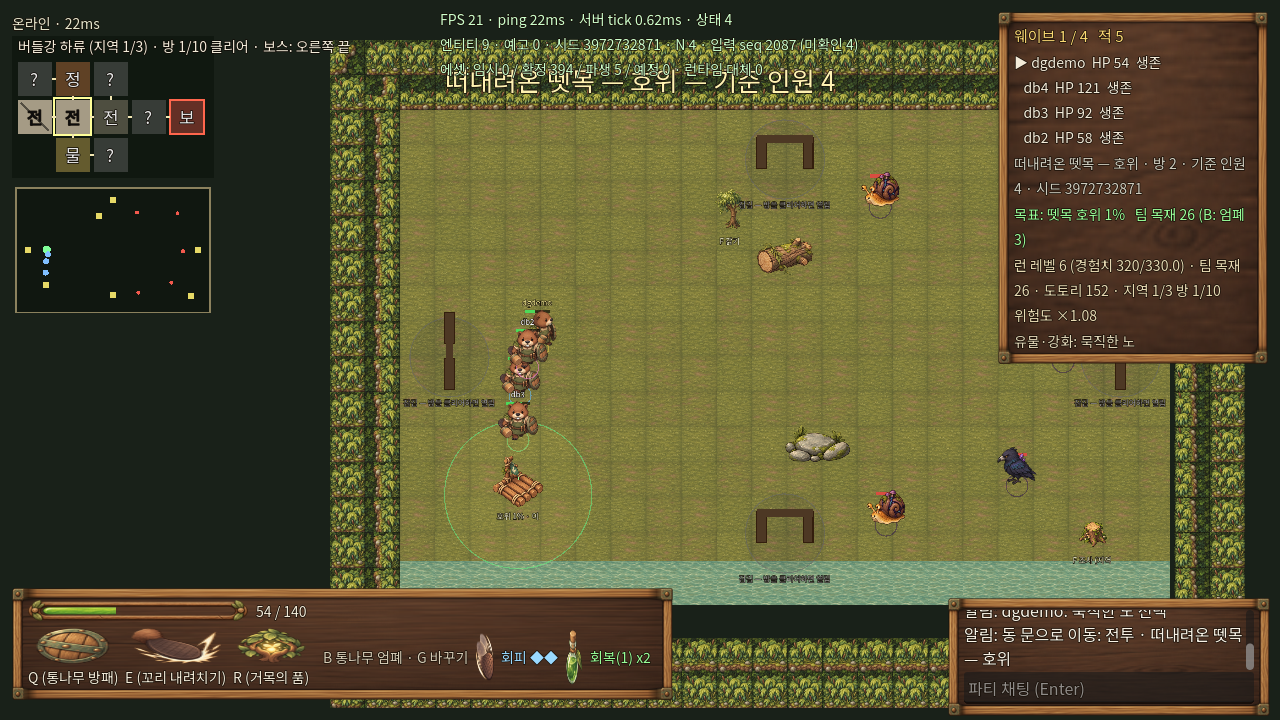
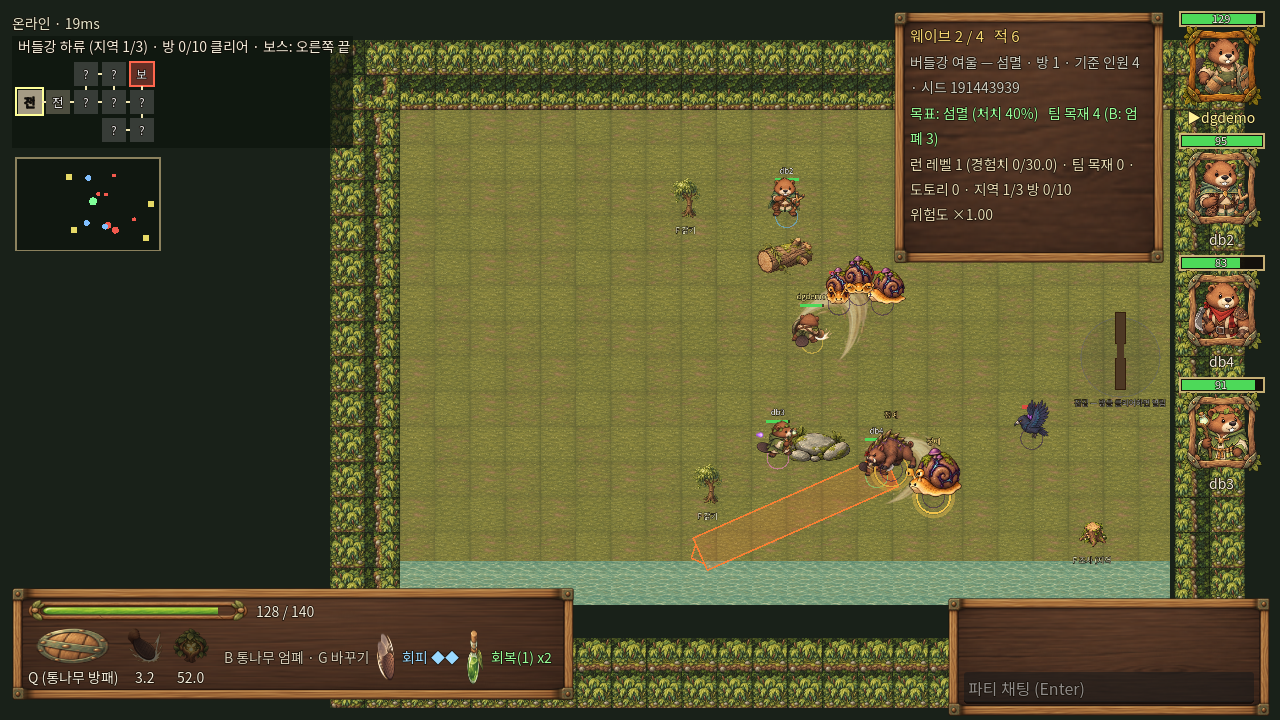
파티 초상 카드: 우측 세로 배치, 초상 위 체력 띠(숫자), 이름·상태, 내 카드 금색 테두리
- client/ui/party_portraits.gd: 직업 초상(portrait.<class>) + 초상 틀, 단색 체력 띠(체력 비율로 색 변화), 다운/사망/끊김 표시
- room_hud: 우측 끝에 초상 열, 정보 패널은 왼쪽으로. 글자 목록은 숨김
- 스크린샷·playtest_notes 갱신

Claude-Session: https://claude.ai/code/session_01N8xJymo9FGyYVNv94d4Kf7

diff --git a/docs/playtest_notes.md b/docs/playtest_notes.md
@@ -55,4 +55,5 @@
 - 사용자 지적 "전체적으로 가독성이 떨어진다". 적용: 모든 글자에 어두운 외곽선 3px(테마: Label·Button·RichTextLabel·LineEdit·OptionButton), 글자 크기 하한 14px(11~13px 사용처 전부 상향), 흐린 회색 안내 글자 밝기 보정(`UIKit.readable_color`), 패널 나무결 살짝 어둡게(대비), 패널 안쪽 여백 확대, 월드 글자(이름표·문 안내·지도)도 외곽선, 긴 안내문 자동 줄바꿈, 장비 버튼 글자 잘림(…) 처리, 데모 캡처에서 개발 정보 숨김.
 - 기본 UI 배율은 1.0 유지(1.15 는 1280×720 에서 우측 패널이 밀림). 설정 → "텍스트·UI 크기"로 1.6 까지 올릴 수 있다.
 - 남은 과제: 아이콘 없이 글자로만 구분하는 부분(장비·도안)은 v5 아이콘이 들어오면 줄어든다. 실기(1920×1080)에서 글자 크기 재확인.
+- 팀원 표시: 우측 상단 글자 목록 대신 화면 우측 끝에 세로 초상 카드(체력 띠 + 숫자 위, 직업 초상, 이름 아래). 내 카드는 금색 테두리, 다운·사망·연결 끊김은 초상을 어둡게 하고 글자로 표시. 정보 패널은 그 왼쪽으로 이동.
 
